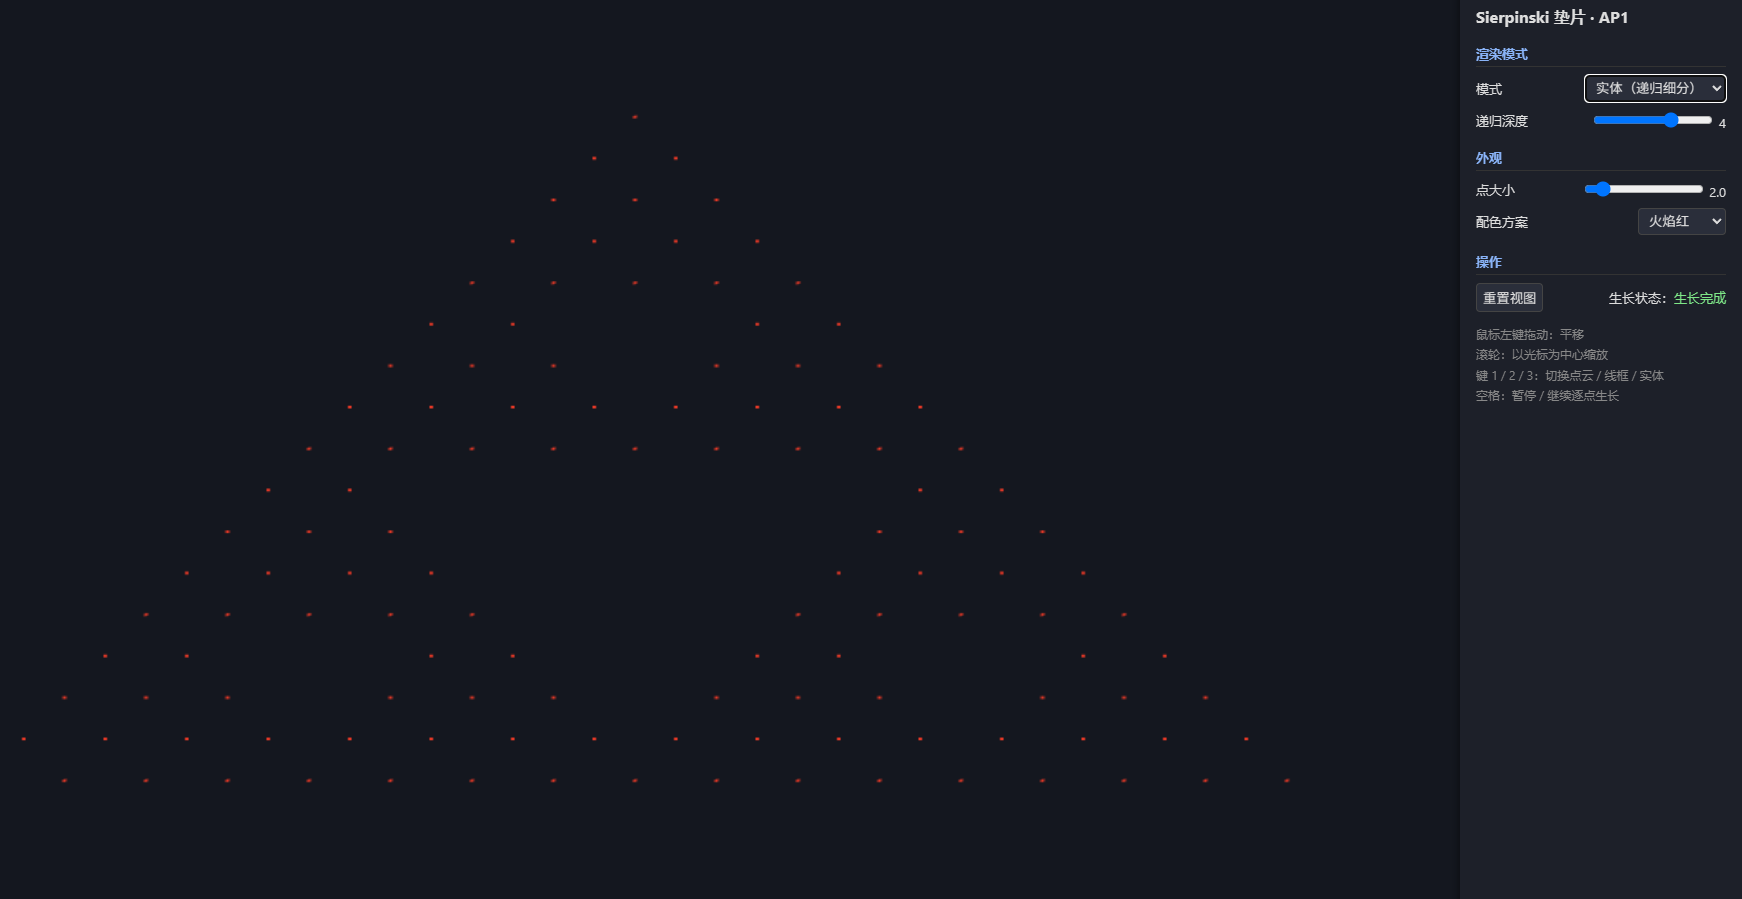
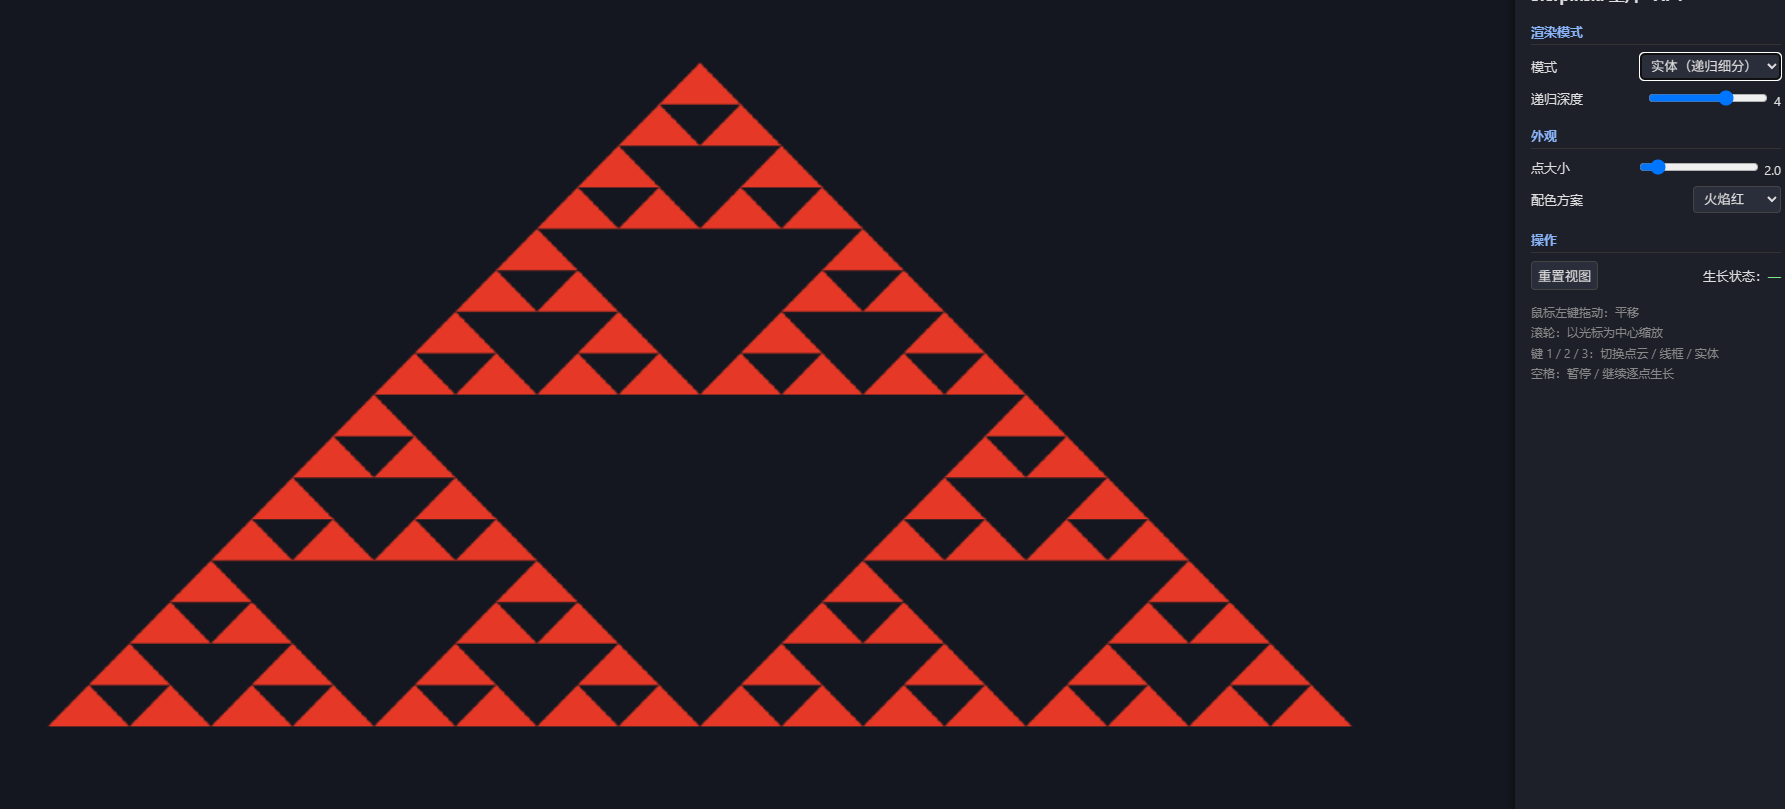
AP1: interactive 2D fractal

diff --git a/README.md b/README.md
@@ -1,0 +1,86 @@
+# AP1 · 交互式 2D 分形 — Sierpinski 垫片
+
+课程项目（Angel & Shreiner, *Interactive Computer Graphics*, 8th ed., Ch2–3）。
+原生 WebGL 2.0 + JavaScript，使用教材配套工具库风格（`Common/` 下 `initShaders.js` / `MV.js` / `webgl-utils.js`），无构建步骤。
+
+## 运行方式
+
+任意静态服务器从项目根目录启动即可，例如：
+
+```bash
+cd D:\Wednesday\ap1
+python -m http.server 8000
+```
+
+浏览器打开 `http://localhost:8000/`。直接双击 `index.html`（file://）在多数浏览器因安全限制无法加载，请使用静态服务器。
+
+## 实现要点
+
+### 两种生成算法
+
+1. **混沌游戏（随机迭代）** —— `js/gasket.js: chaosGame()`
+   初始点取原点附近的随机迭代：反复执行 `p = (p + 随机顶点) / 2`，前 20 个点丢弃（避免初始点落在垫片外的杂点），其余以 `Float32Array` 组织、经 `gl.bufferData` 上传 VBO，用 `gl.POINTS` 渲染。
+   该实现把多边形边数参数化，切换边数即可得到四边形 / 五边形 / 六边形混沌游戏垫片（选做 E1）。
+
+2. **递归细分** —— `js/gasket.js: subdivide()`
+   对三角形取三边中点，分成 4 个小三角形并丢弃中间一个，其余 3 个递归；深度为 0 时输出顶点。深度 0–6 均可运行（深度 6 共 729 个三角形）。
+   同一批顶点数据支持三种渲染模式：点云 `gl.POINTS`、线框 `gl.LINES`（每三角形 6 个索引）、实体 `gl.TRIANGLES`。
+
+### 数据流
+
+`Float32Array` → `gl.bufferData` → VBO → `gl.vertexAttribPointer` → 顶点着色器 attribute。
+平移 / 缩放通过 uniform（`u_offset` / `u_scale`）作用于顶点着色器，鼠标交互不重新上传几何数据。
+
+### 逐点生长动画
+
+点云模式下 `shownCount` 从 0 开始，每帧追加 300 个点（`gl.drawArrays(gl.POINTS, 0, shownCount)`），直到达到设定顶点数；空格键可暂停 / 继续。
+
+## 交互说明
+
+| 操作 | 效果 |
+|---|---|
+| 鼠标左键拖动 | 平移视图 |
+| 滚轮 | 以光标位置为锚点缩放 |
+| 键 `1` / `2` / `3` | 切换点云 / 线框 / 实体 |
+| `空格` | 暂停 / 继续逐点生长动画 |
+| 参数面板 | 顶点数（1000–50000）、递归深度（0–6）、点大小、3 套配色、多边形边数、重置视图 |
+
+## 文件结构
+
+```
+ap1/
+├── index.html            # 页面、着色器源码（script 标签）、面板布局
+├── Common/               # 教材配套工具库
+│   ├── webgl-utils.js    # setupWebGL() / requestAnimFrame
+│   ├── initShaders.js    # 从 script 标签编译链接着色器
+│   └── MV.js             # vec/mat 工具（本项目实际使用 flatten/vec2 等）
+└── js/
+│   ├── gasket.js         # 几何算法（纯函数，不接触 GL）
+│   ├── renderer.js       # WebGL 渲染（着色器、VBO、绘制、生长动画）
+│   ├── interaction.js    # 鼠标 / 键盘事件
+│   ├── ui.js             # 参数面板绑定
+│   └── main.js           # 入口装配
+└── screenshots/          # README 引用的截图
+```
+
+## 截图
+
+三种渲染模式（均配"火焰红"配色，递归深度 4–5）：
+
+| 点云（混沌游戏，5000 点） | 线框（递归细分，深度 4） |
+|---|---|
+| ![点云模式](screenshots/points.png) | ![线框模式](screenshots/wireframe.png) |
+
+| 实体（递归细分，深度 5） | 选做 E1：五边形混沌游戏 |
+|---|---|
+| ![实体模式](screenshots/solid.png) | ![五边形混沌游戏](screenshots/pentagon.png) |
+
+观察：n=3 时混沌游戏收敛到标准 Sierpinski 垫片；n≥4 时（如五边形）点趋近均匀填满多边形内部，不再形成自相似孔洞结构。
+
+## 代码出处说明
+
+`Common/` 下三个工具库为教材（Angel & Shreiner）配套公开代码的等价实现（本仓库内版本为按教材接口手写，接口与原版一致）；分形几何、渲染与交互代码均为独立撰写。
+
+## 选做扩展
+
+- **E1 任意 n 边形垫片**：已实现。混沌游戏顶点数参数化，面板可切 3/4/5/6/8 边形；观察可知：n=3 得到标准 Sierpinski 垫片，n≥4 时若不加限制点会趋近均匀填满多边形内部，而不是形成自相似孔洞结构。
